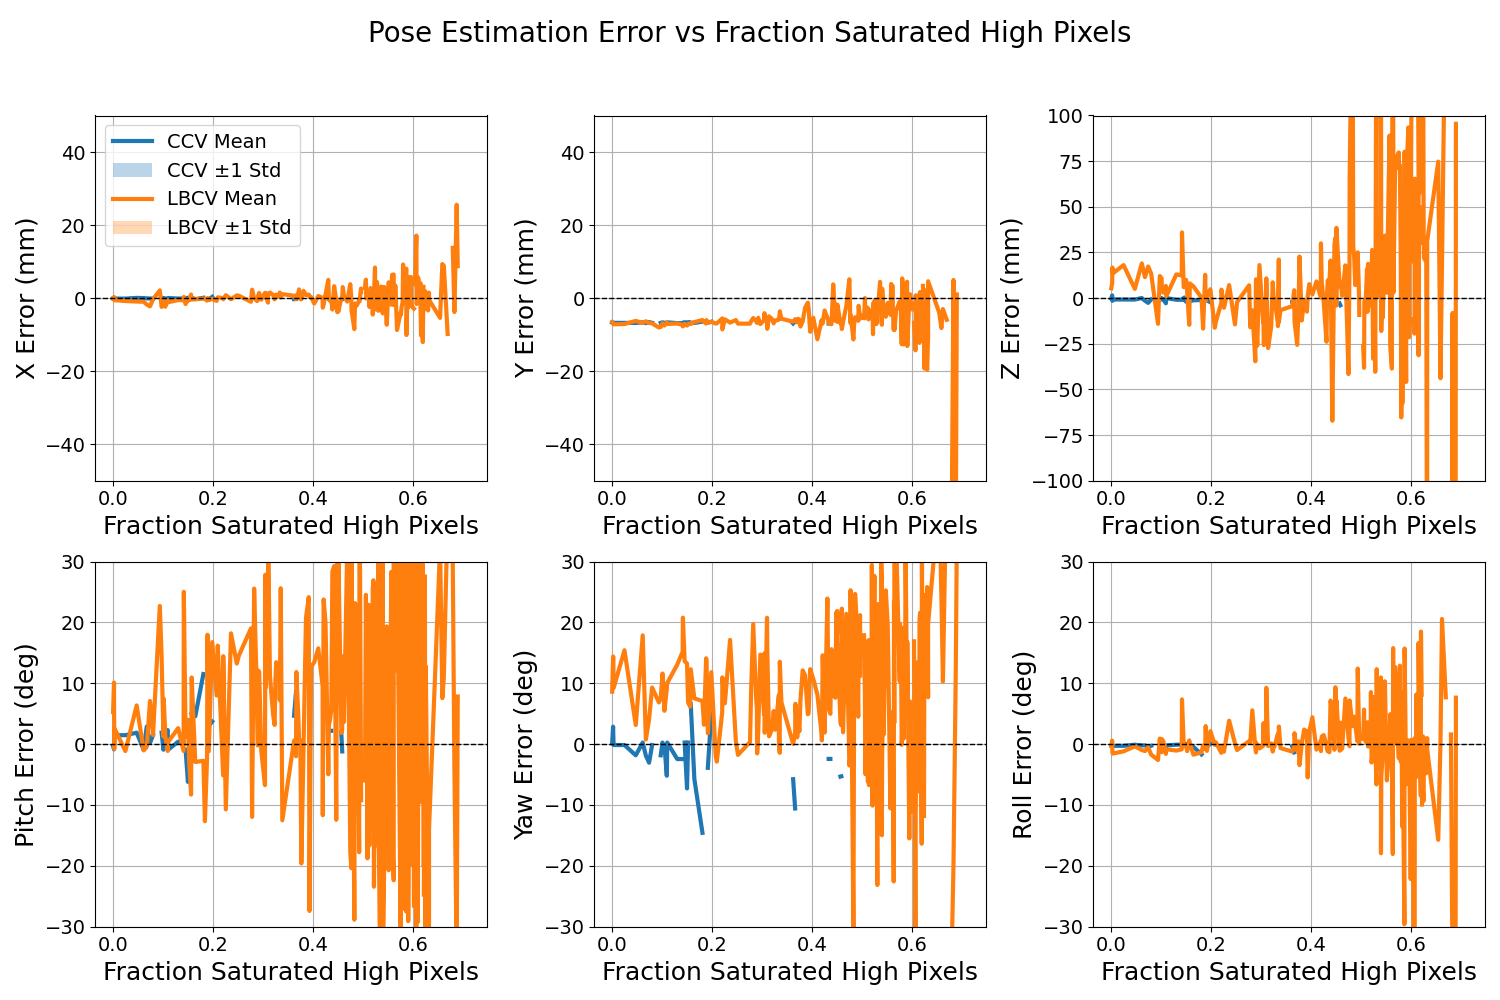
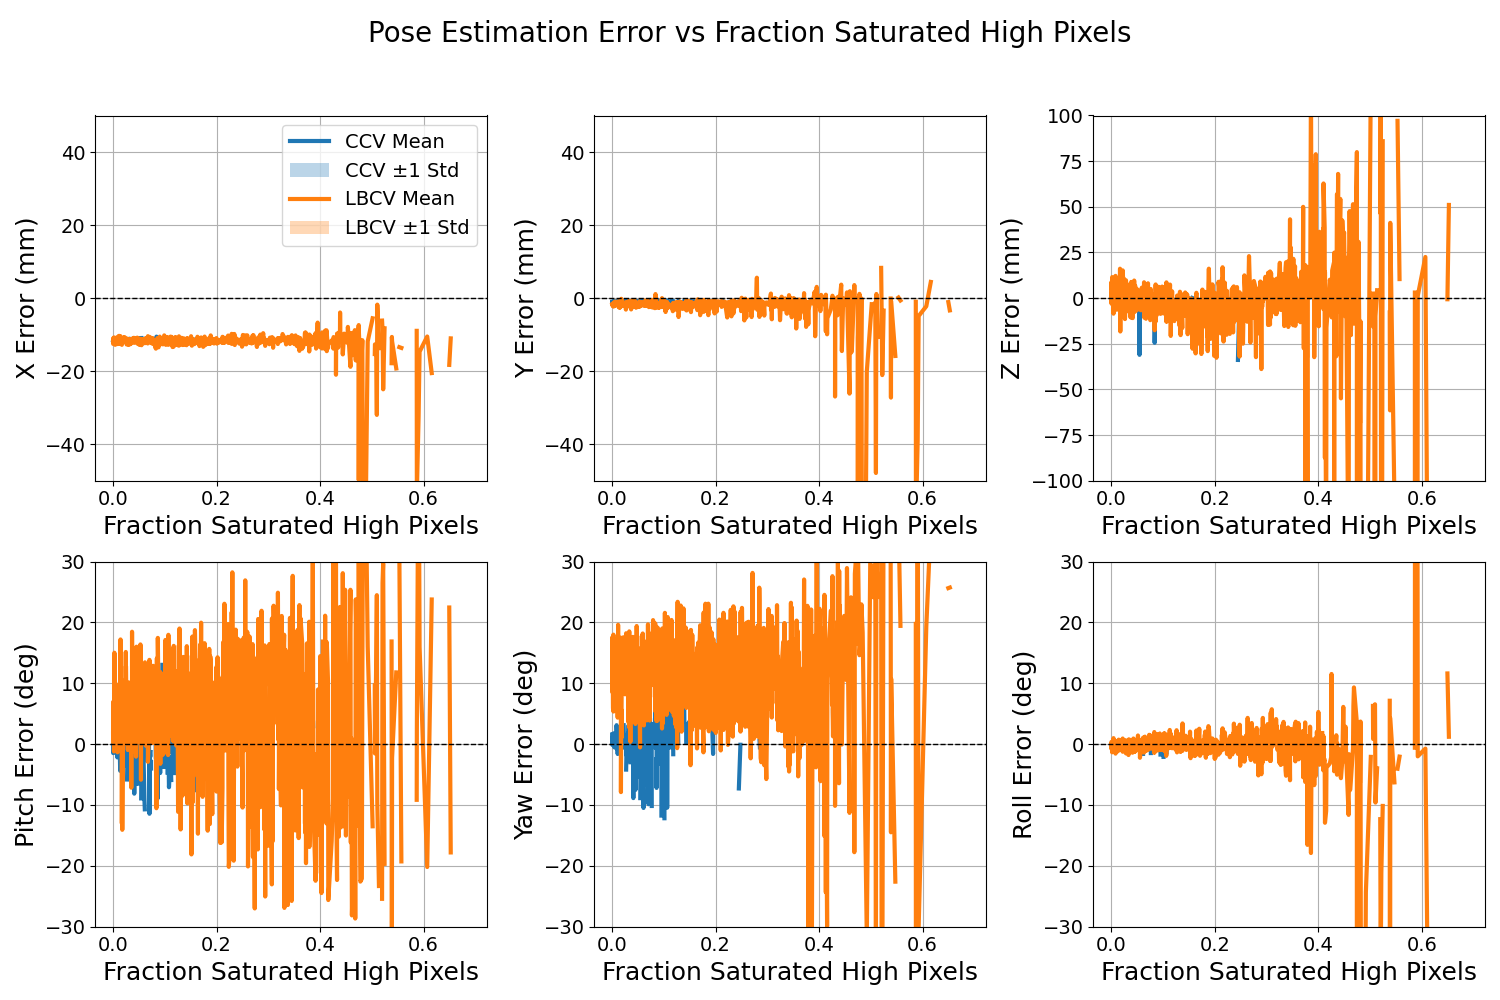
additional experiments and separate plots with HCV results

diff --git a/ablations/analysis/real_data_plotter.py b/ablations/analysis/real_data_plotter.py
@@ -54,7 +54,7 @@ class Plotter():
         else:
             self.config["plot_CCV"] = True
             self.config["plot_LBCV"] = True
-            self.config["plot_HCV"] = False
+            self.config["plot_HCV"] = True
             self.config["plot_PBCV"] = False
 
         if config["ablation_variable_min"] != "None":
@@ -276,8 +276,8 @@ class Plotter():
             methods_to_plot.append('detected_CCV')
         if self.config.get("plot_LBCV", False):
             methods_to_plot.append('detected_LBCV')
-        if self.config.get("plot_HCV", False):
-            methods_to_plot.append('detected_HCV')
+        # if self.config.get("plot_HCV", False):
+        #     methods_to_plot.append('detected_HCV')
         if self.config.get("plot_PBCV", False):
             methods_to_plot.append('detected_PBCV')
 
@@ -287,7 +287,7 @@ class Plotter():
         method_mapping = {
             'detected_CCV': 'CCV',
             'detected_LBCV': 'LBCV',
-            'detected_HCV': 'HCV',
+            # 'detected_HCV': 'HCV',
             'detected_PBCV': 'PBCV'
         }
         melted_data['Method'] = melted_data['Method'].map(method_mapping)
@@ -508,12 +508,15 @@ class Plotter():
 
         fig.suptitle(f'Pose Estimation Error vs {ablation_variable_pretty}', fontsize=20)
         plt.tight_layout(rect=[0, 0, 1, 0.95])
-        save_path = os.path.join(self.output_dir, f"{ablation_variable}_error_mean_std.png")
+        plot_filename = f"{ablation_variable}_error_mean_std.png" 
+        if self.config.get("plot_HCV", False):
+            plot_filename = f"{ablation_variable}_error_mean_std_HCV.png"
+        save_path = os.path.join(self.output_dir, plot_filename)
         plt.savefig(save_path)
         if save_central:
             central_output_path = self.config.get("central_output_path", self.output_dir)
             os.makedirs(central_output_path, exist_ok=True)
-            save_path = os.path.join(central_output_path, f"{ablation_variable}_error_mean_std.png")
+            save_path = os.path.join(central_output_path, plot_filename)
             plt.savefig(save_path)
         plt.close()
 
@@ -604,12 +607,16 @@ class Plotter():
             #         ax.set_ylim(-30, 30)
 
         plt.tight_layout()
-        save_path = os.path.join(self.output_dir, f"{ablation_variable}_error_moving_mean_std.png")
+        plot_filename = f"{ablation_variable}_error_moving_mean_std.png"
+        if self.config.get("plot_HCV", False):
+            plot_filename = f"{ablation_variable}_error_moving_mean_std_HCV.png"
+
+        save_path = os.path.join(self.output_dir, plot_filename)
         plt.savefig(save_path, dpi=300, bbox_inches='tight')
         if save_central:
             central_output_path = self.config.get("central_output_path", self.output_dir)
             os.makedirs(central_output_path, exist_ok=True)
-            save_path_central = os.path.join(central_output_path, f"{ablation_variable}_error_moving_mean_std.png")
+            save_path_central = os.path.join(central_output_path, plot_filename)
             plt.savefig(save_path_central, dpi=300, bbox_inches='tight')
         plt.close()
 
@@ -848,7 +855,7 @@ class Plotter():
         Z MAE +/- std dev (mm), Pitch MAE +/- std dev (deg),
         Yaw MAE +/- std dev (deg), Roll MAE +/- std dev (deg).
         """
-        methods = ["CCV", "LBCV with CCV success", "LBCV with CCV fail", "LBCV"]
+        methods = ["CCV", "LBCV with CCV success", "LBCV with CCV fail", "LBCV", "HCV with CCV success", "HCV with CCV fail", "HCV"]
         summary_data = []
 
         for method in methods:
@@ -860,6 +867,12 @@ class Plotter():
                 mask = (self.df_data['detected_CCV'] == 0) & (self.df_data['detected_LBCV'] == 1)
             elif method == "LBCV":
                 mask = self.df_data['detected_LBCV'] == 1
+            elif method == "HCV with CCV success":
+                mask = (self.df_data['detected_CCV'] == 1) & (self.df_data['detected_HCV'] == 1)
+            elif method == "HCV with CCV fail":
+                mask = (self.df_data['detected_CCV'] == 0) & (self.df_data['detected_HCV'] == 1)
+            elif method == "HCV":
+                mask = self.df_data['detected_HCV'] == 1
 
             filtered_data = self.df_data[mask]
             detection_rate = mask.mean()
@@ -868,8 +881,10 @@ class Plotter():
             error_stats = {}
             if method == "CCV":
                 method_type = "CCV"
-            else:
+            elif "LBCV" in method:
                 method_type = "LBCV"
+            elif "HCV" in method:
+                method_type = "HCV"
             for err_type in ['x', 'y', 'z', 'a', 'b', 'c']:
                 col_name = f'pose_error_{method_type}_{err_type}'
                 mae = filtered_data[col_name].abs().mean()
@@ -1103,7 +1118,7 @@ class Plotter():
         plt.close()
         
 if __name__ == "__main__":
-    ablations = ["glare_20250712"] 
+    ablations = ["skew_with_foil_border"] 
     # ablations = ["distance","skew","truncation","underexposure","glare","glint","shadow"]
     data_yaml_path = "./ablations/real_exp_data_description.yaml" 
     with open(data_yaml_path, 'r') as f:

diff --git a/ablations/analysis/real_data_processor.py b/ablations/analysis/real_data_processor.py
@@ -76,8 +76,10 @@ class DataPoint():
     def set_corners_LBCV(self, corners):
         self.corners_LBCV = corners
         if hasattr(self, 'corners_true'): 
-            # compute mean corners error in pixel distance 
-            self.corners_error_LBCV = np.mean(np.linalg.norm(self.corners_true - self.corners_LBCV, axis=1)) # shape (4, 2) 
+            # compute mean corners error in pixel distance by finding closest corners in self.corners_true 
+            distances = np.linalg.norm(self.corners_true[:, np.newaxis, :] - self.corners_LBCV[np.newaxis, :, :], axis=-1)  # shape (4, 4)
+            closest_indices = np.argmin(distances, axis=1)
+            self.corners_error_LBCV = np.linalg.norm(self.corners_true - self.corners_LBCV[closest_indices], axis=1)  # shape (4,)
             self.mean_corners_error_LBCV = np.mean(self.corners_error_LBCV)  # scalar value 
     
     def set_detected_LBCV(self, bool_detected):
@@ -465,7 +467,9 @@ class DataProcessor():
         # Ensure it's float32/float64 type as expected by cv2.solvePnP
         keypoints_est = keypoints_est.astype(np.float32)
         keypoints_ref = keypoints_ref.astype(np.float32)
-        
+
+        import pdb; pdb.set_trace()  # Debugging line to inspect keypoints_ref and keypoints_est
+
         success, rvec, tvec = cv2.solvePnP(
             objectPoints=keypoints_ref,
             imagePoints=keypoints_est,
@@ -480,25 +484,30 @@ class DataProcessor():
             return tf_marker 
 
     def find_closest_symmetric_pose(self, tf_est, tf_ref): 
-        tf_z_rot_90deg = np.array([
+        tf_z_90 = np.array([
             [0, -1, 0, 0],
-            [1, 0, 0, 0],
-            [0, 0, 1, 0],
-            [0, 0, 0, 1]
+            [1,  0, 0, 0],
+            [0,  0, 1, 0],
+            [0,  0, 0, 1]
         ])
-        tf_est_0 = tf_est.copy()
-        # right-multiply tf_est by 90 degree rotations around local Z-axis
-        tf_est_1 = tf_est @ tf_z_rot_90deg
-        tf_est_2 = tf_est @ tf_z_rot_90deg @ tf_z_rot_90deg
-        tf_est_3 = tf_est @ tf_z_rot_90deg @ tf_z_rot_90deg @ tf_z_rot_90deg
-        tf_candidates = [tf_est_0, tf_est_1, tf_est_2, tf_est_3]
+        tf_z_180 = tf_z_90 @ tf_z_90
+        tf_z_270 = tf_z_180 @ tf_z_90
+
+        tf_candidates = [
+            tf_est,
+            tf_est @ tf_z_90,
+            tf_est @ tf_z_180,
+            tf_est @ tf_z_270
+        ]
+
         min_error = float('inf')
         best_tf = None
         for tf_candidate in tf_candidates:
-            error = np.linalg.norm(compute_tf_error(tf_ref, tf_candidate))
+            error = np.linalg.norm(tf_candidate[:3, :3] - tf_ref[:3, :3]) # angular error 
             if error < min_error:
                 min_error = error
                 best_tf = tf_candidate
+
         if best_tf is None:
             logger.warning("[LBCV] No valid symmetric pose found.")
             return None 
@@ -584,7 +593,7 @@ class DataProcessor():
                             self.datapoints[idx].set_corners_HCV(None) 
                             self.datapoints[idx].set_tf_HCV(None)
                         else:
-                            tf_est_corrected = tf_est 
+                            tf_est_corrected = tf_est
                             tf_est_hcv = self.find_closest_symmetric_pose(tf_est_hcv, tf_est_corrected)
                             self.datapoints[idx].set_detected_HCV(bool_detected_hybrid) 
                             self.datapoints[idx].set_corners_HCV(corners_est) 
